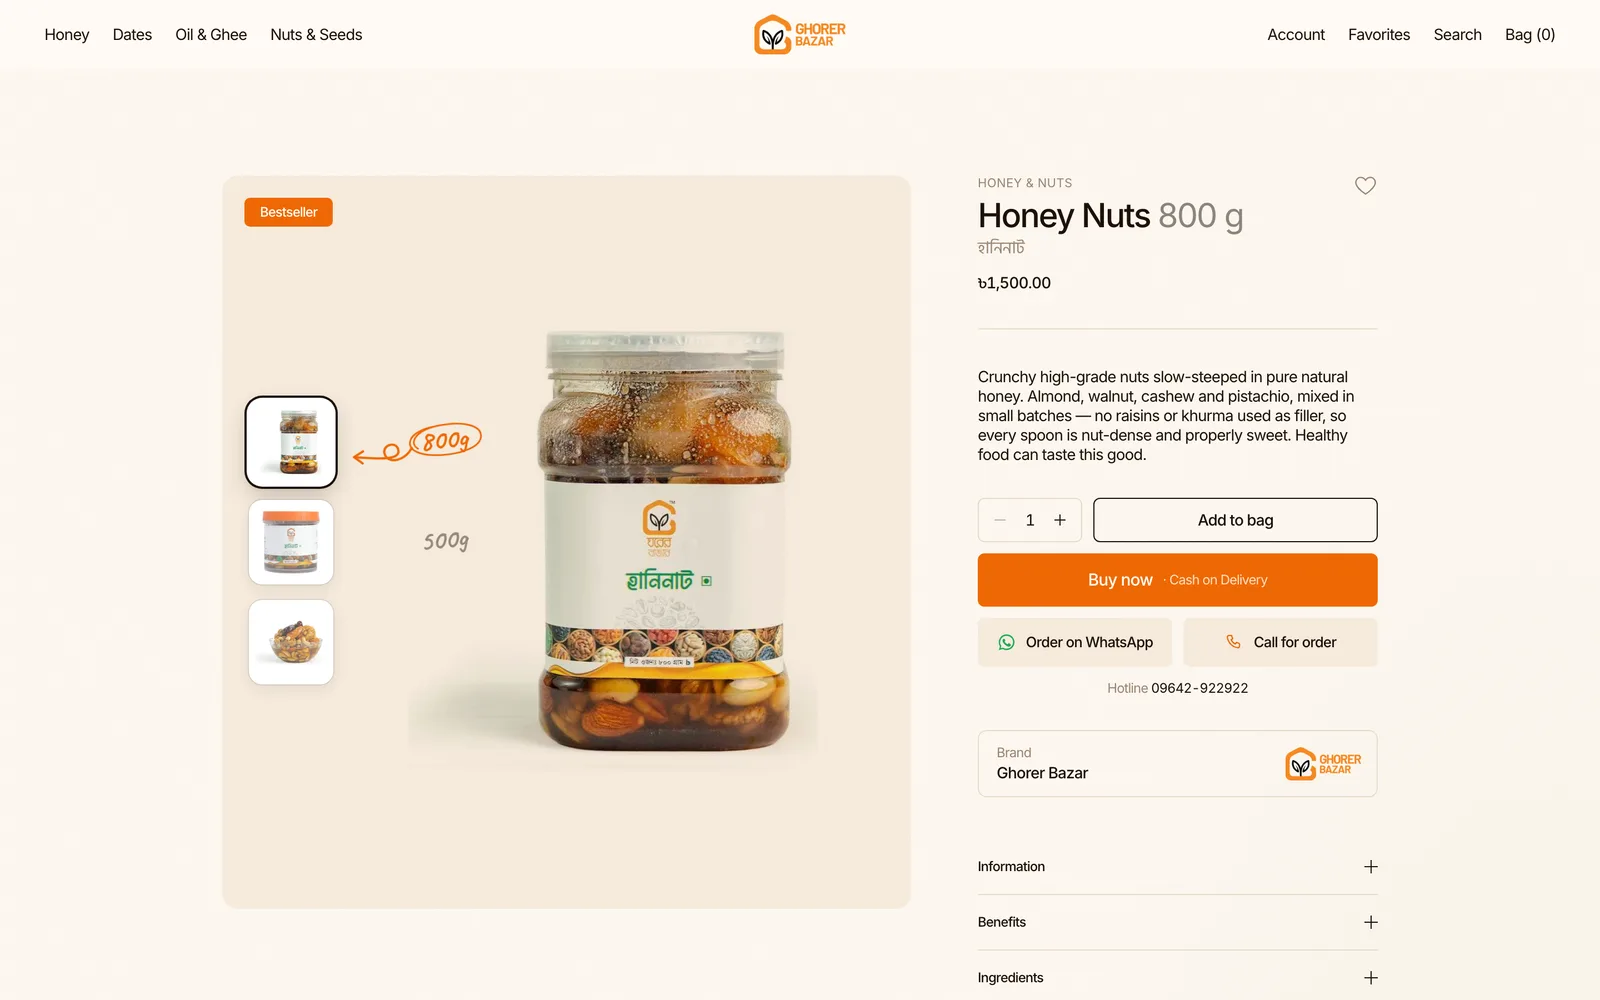
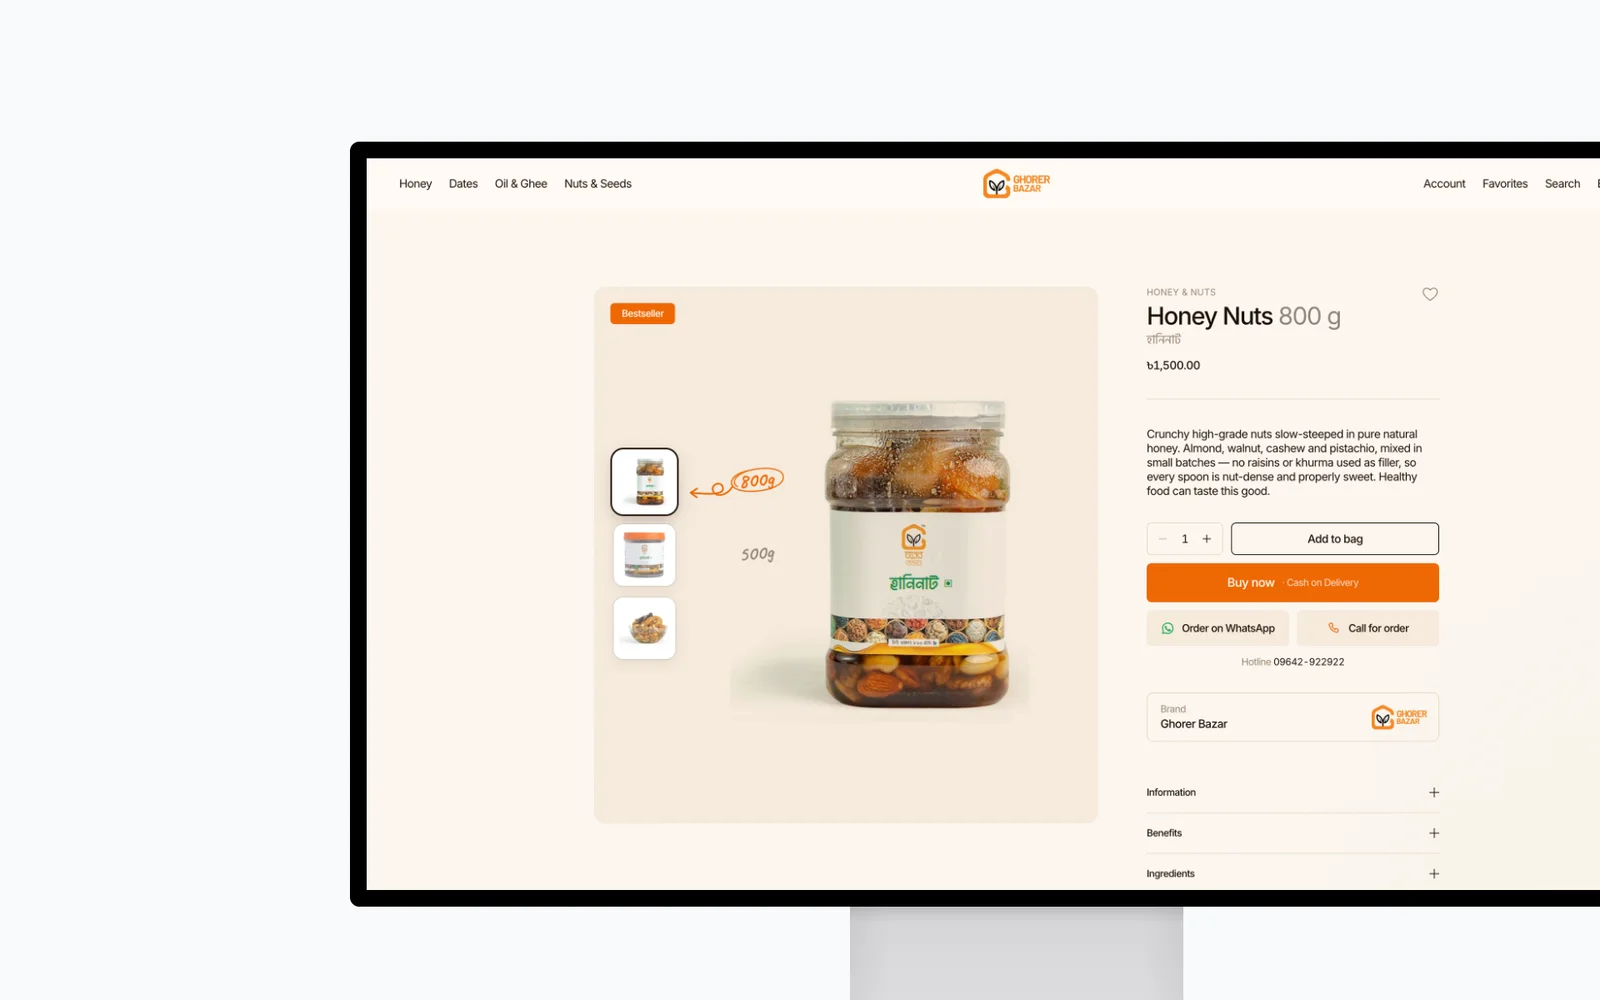
What if: iMac mockups, SSLCOMMERZ live inside the screen
The three concept tiles are now mockup-kit iMac shots on light grey, matching the
hero work cards. SSLCOMMERZ keeps running live, scaled into the monitor's screen
and pinned to the hero; Ghorer Bazar and Gentleman's Wardrobe are stills, because
the GW hero animation broke inside the preview frame.

diff --git a/components/home/live-shot.tsx b/components/home/live-shot.tsx
@@ -2,10 +2,14 @@
 
 import { useEffect, useRef, useState } from "react"
 
-// The concept is rendered at a desktop viewport and scaled down to the tile, so the preview is the
-// real hero running live, frozen at the top of the page: no scrolling, no pointer, no focus.
-const VW = 1440
+// The concept runs live inside the iMac screen of its mockup poster: rendered at the desktop viewport
+// it was captured at, scaled down onto the screen, frozen at the top of the page (no scroll, pointer or focus).
+const VW = 1600
 const VH = 900
+
+// Where the screen sits in the poster, as fractions of the poster (mockup-kit desktop/mock.html
+// rendered at 1920x1200 with l=420 t=170 w=1600: 20px bezel, 16:9 screen).
+const SCREEN = { left: 440 / 1920, top: 190 / 1200, width: 1560 / 1920 }
 
 export function LiveShot({ src, poster }: { src: string; poster: string }) {
   const box = useRef<HTMLSpanElement>(null)
@@ -18,7 +22,7 @@ export function LiveShot({ src, poster }: { src: string; poster: string }) {
     if (!el) return
     if (window.matchMedia("(prefers-reduced-motion: reduce)").matches) return
 
-    const ro = new ResizeObserver(([e]) => setScale(e.contentRect.width / VW))
+    const ro = new ResizeObserver(([e]) => setScale((e.contentRect.width * SCREEN.width) / VW))
     ro.observe(el)
 
     // Only boot the site once the tile is about to be seen
@@ -40,20 +44,28 @@ export function LiveShot({ src, poster }: { src: string; poster: string }) {
 
   return (
     <span className="shot" ref={box}>
-      <img src={poster} alt="" width={1600} height={1000} loading="lazy" draggable={false} />
-      {near && scale > 0 && (
-        <iframe
-          src={src}
-          title=""
-          aria-hidden="true"
-          tabIndex={-1}
-          scrolling="no"
-          loading="lazy"
-          onLoad={() => setLoaded(true)}
-          className={loaded ? "on" : undefined}
-          style={{ width: VW, height: VH, transform: `scale(${scale})` }}
-        />
-      )}
+      <span className="zoom">
+        <img src={poster} alt="" width={1600} height={1000} loading="lazy" draggable={false} />
+        {near && scale > 0 && (
+          <iframe
+            src={src}
+            title=""
+            aria-hidden="true"
+            tabIndex={-1}
+            scrolling="no"
+            loading="lazy"
+            onLoad={() => setLoaded(true)}
+            className={loaded ? "on" : undefined}
+            style={{
+              left: `${SCREEN.left * 100}%`,
+              top: `${SCREEN.top * 100}%`,
+              width: VW,
+              height: VH,
+              transform: `scale(${scale})`,
+            }}
+          />
+        )}
+      </span>
     </span>
   )
 }

diff --git a/lib/home.ts b/lib/home.ts
@@ -43,10 +43,10 @@ export type ClientLogo =
   | { name: string; wordmark: "gala"; href?: string }
 
 // "What if": our own unsolicited redesigns of brands we don't work with, served from this site
-export const concepts: { name: string; category: string; href: string; image: string; body: string }[] = [
+export const concepts: { name: string; category: string; href: string; image: string; body: string; live?: boolean }[] = [
   { name: "SSLCOMMERZ", category: "SaaS", href: "/sslcommerz", image: "/home/concepts/sslcommerz.webp", body: "Payments in one line: cards, bKash, Nagad and EMI through a single integration." },
-  { name: "Ghorer Bazar", category: "Organic Food", href: "/ghorerbazar", image: "/home/concepts/ghorerbazar.webp", body: "A product page built for the way people here buy: cash on delivery, WhatsApp and a phone call." },
-  { name: "Gentleman's Wardrobe", category: "Clothing", href: "/gw", image: "/home/concepts/gw.webp", body: "A tailoring house that leads with craft, ready to wear on one side and made to measure on the other." },
+  { name: "Ghorer Bazar", category: "Organic Food", href: "/ghorerbazar", image: "/home/concepts/ghorerbazar.webp", live: false, body: "A product page built for the way people here buy: cash on delivery, WhatsApp and a phone call." },
+  { name: "Gentleman's Wardrobe", category: "Clothing", href: "/gw", image: "/home/concepts/gw.webp", live: false, body: "A tailoring house that leads with craft, ready to wear on one side and made to measure on the other." },
 ]
 
 export const clientLogos: ClientLogo[] = [

diff --git a/app/home.css b/app/home.css
@@ -373,10 +373,14 @@ html:has(.ah) [data-edge-blur] {
   transition: transform 600ms var(--ease-out);
 }
 .ah .concept .shot { position: relative; }
+.ah .concept .zoom {
+  position: absolute;
+  inset: 0;
+  transition: transform 600ms var(--ease-out);
+}
+.ah .concept .zoom img { transition: none; }
 .ah .concept iframe {
   position: absolute;
-  top: 0;
-  left: 0;
   border: 0;
   transform-origin: 0 0;
   pointer-events: none;
@@ -413,6 +417,8 @@ html:has(.ah) [data-edge-blur] {
 @media (hover: hover) and (pointer: fine) {
   .ah .concept:hover { background: var(--tile-hi); transform: translateY(-4px); }
   .ah .concept:hover img { transform: scale(1.03); }
+  .ah .concept:hover .zoom { transform: scale(1.03); }
+  .ah .concept:hover .zoom img { transform: none; }
   .ah .concept:hover .tag { color: var(--fg); }
 }
 .ah .concept:active { transform: scale(0.98); }

diff --git a/app/page.tsx b/app/page.tsx
@@ -141,7 +141,13 @@ export default function Page() {
           {concepts.map((c) => (
             <li key={c.name}>
               <a className="concept" href={c.href} target="_blank" rel="noopener noreferrer" aria-label={`${c.name}, ${c.category} website concept (opens in a new tab)`}>
-                <LiveShot src={c.href} poster={c.image} />
+                {c.live === false ? (
+                  <span className="shot">
+                    <img src={c.image} alt="" width={1600} height={1000} loading="lazy" draggable={false} />
+                  </span>
+                ) : (
+                  <LiveShot src={c.href} poster={c.image} />
+                )}
                 <span className="meta">
                   <span className="name">{c.name}</span>
                   <span className="tag">{c.category} ↗</span>
